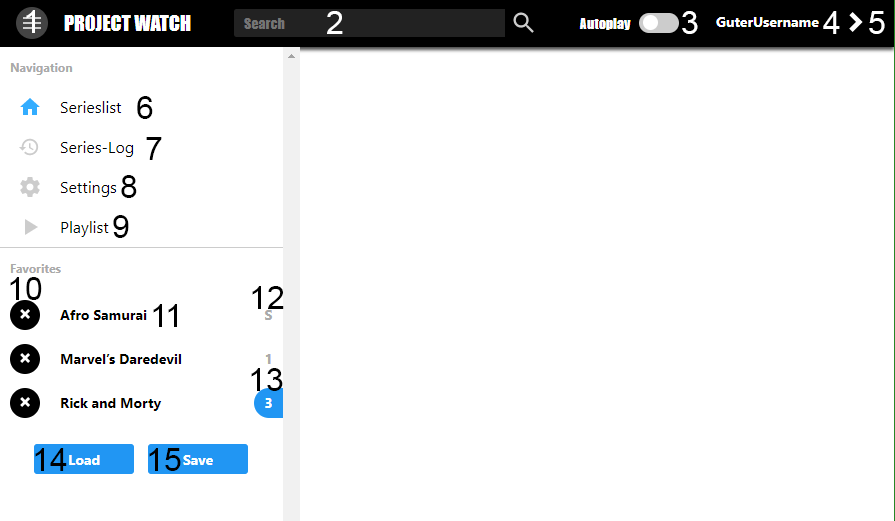
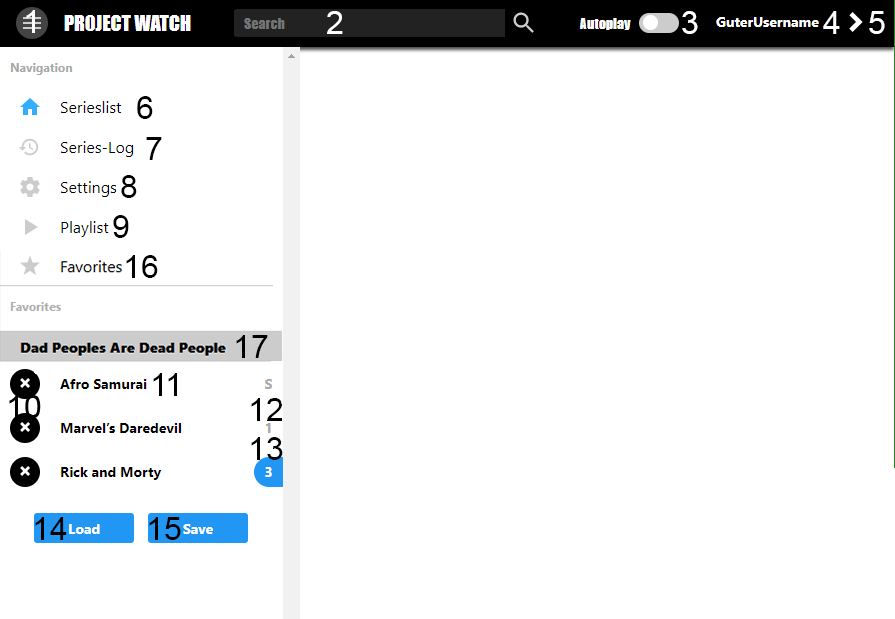
???

diff --git a/Instruction/Manuals/manuals.html b/Instruction/Manuals/manuals.html
@@ -132,6 +132,17 @@
                             <li><a href="#medienspielerset">Medienspieler</a></li>
                         </ul>
                     </li>
+                    <li><a href="#favoritensortierung">Favoritensortierung</a>
+                        <ul>
+                            <li><a href="#favoritensortierungsbeschreibung">Favoritensortierungsbeschreibung</a></li>
+                        </ul>                      
+                    </li>
+                    <li><a href="#playlist">Playlist</a>
+                        <ul>
+                            <li><a href="#playlistbeschreibung">Playlistbeschreibung</a></li>
+                        </ul>                      
+                    </li>
+                    <li><a href="#serienlog">Serienlog</a></li>
                     <li><a href="#weitereoptimierungen">Weitere Optimierungen</a>
                         <ul>
                             <li><a href="#addblockfilter">Addblock Filter</a></li>
@@ -281,6 +292,17 @@
                             Nur möglich, wenn der Benutzer angemeldet ist.
                         </li>
                         <li><strong>Speichernknopf.</strong> Speichert alle Favoriten auf dem Account des Benutzers. Speichert keine Staffeln. Nur möglich, wenn der Benutzer angemeldet ist.</li>
+                        <li>
+                            <strong>Favorites</strong>
+                            Navigation zum Favoriten kategorisieren. Diese Navigation ist nur sichtbar wenn unter den 
+                            Einstellungen "Categories Favorite Menu" angeschaltet ist.<hotkey>ENTER</hotkey>.
+                        </li>
+                        <li>
+                            <strong>Kategorie</strong>
+                            Anzeige der Kategorie. Der Titel, die Anzahl und gelistete Favoriten der Kategorien kann,
+                            unter der Navigation "Favorites", selbst bestimmt werden. Die Kategorien ist nur sichtbar
+                            wenn unter den Einstellungen "Categories Favorite Menu" angeschaltet ist.
+                        </li>
                     </ol>
                 </div>
             </div>
@@ -490,6 +512,12 @@
                                 Favoriten gespeichert sind. (Ca 15 Sekunden für 27 Favoriten. Prozessor-, Browser- und Internetabhängig)
                             </li>
                             <li>
+                                <strong>Categorize Favorite Menu</strong>
+                                Schaltet das Favoritennavigationsfeld frei. Die Favoriten können bei aktivierung sortiert
+                                werden und werden auch Sortiert im Seitenmenü angezeigt. Die Kategorie "Not Sorted" kann
+                                nicht Sortiert werden und wird immer in alphabetischer Reihenfolge angezeit.
+                            </li>
+                            <li>
                                 <strong>Enable Episodesearch. Seriessearch on Episodelist Will Be Disabled</strong>.
                                 Schaltet die Episodensuche auf der Episodenliste an. Dabei wird die Seriensuche auf der
                                 Episodenliste ausgeschaltet.
@@ -569,6 +597,108 @@
                 </div>
             </div>
             
+            <h2 id="favoritensortierung">Favoritensortierung</h2>
+            <div class="tab">
+                <p>
+                    Im Menüpunkt "Favorites" können die Favoriten mit Kategorien sortiert werden. Sowohl Favoriten
+                    als auch ihre Kategorien können sortiert werden. Die Kategorie "Not Sorted" ist eine unsortierte
+                    Kategorie und kann werder in der Kategoriereihenfolge als auch in der Favoritenreihenfolge sortiert
+                    werden. Dieser Menüpunkt ist nur sichtbar wenn die Einstellung "Categorize Favorite Menu" im General-tab
+                    angeschaltet ist. Kategorien mit dem gleichen Namen werden zusammengefasst.
+                </p>
+                <h3 id="favoritensortierungsbeschreibung">Favoritensortierungsbeschreibung</h3>
+                <div class="tab">
+                    <img width="700" src="img/Favorites.PNG"></img>
+                    <ol>
+                        <li>
+                            <strong>Kategorietitel</strong>.
+                            Name der Kategorie. Der Titel kann genutzt werden um die Reihenfolge der Kategorie
+                            zu ändern. Dafür muss mit der Maus der Titel angeklickt und auf die gewählte stelle
+                            gezogen werden.
+                        </li>
+                        <li>
+                            <strong>Edit</strong>. 
+                            Ermöglicht es dem Nutzer den Titel zu ändern. Zum bestätigen kann neben das Eingabefeld geklickt
+                            werden oder <hotkey>Enter</hotkey> geklickt werden.
+                        </li>
+                        <li>
+                            <strong>Delete</strong>.
+                            Löscht die Kategorie. Alle darin befindenden Favoriten werden in die "Not Sorted"-Kategorie
+                            verschoben.
+                        </li>
+                        <li>
+                            <strong>Favorit</strong>. 
+                            Der Favorit kann mit klicken und ziehen verschoben werden. Dies funktioniert auch unter den
+                            Kategorien.
+                        </li>
+                        <li><strong>Titel</strong>. Der Titel. Ist ein Titel des Favorit.</li>
+                        <li>
+                            <strong>Staffel</strong>. Anzeige der Staffel. Zeigt mit der Farbe an ob der Favorit
+                            komplett geschaut wurde.
+                        </li>
+                        <li>
+                            <strong>Not Sorted Kategorie</strong>.
+                            Die "Not Sorted"- Kategorie beinhaltet alle Favoriten die in keiner Kategorie enthalten ist.
+                            Die Kategorie wird in den Favoriten immer ganz unten Angezeigt. Ihre Sortierung wird nicht gespeichert,
+                            auch wenn ihre Einträge auf dieser Obefläche umsortiert werden können.
+                        </li>
+                        <li>
+                            <strong>Add New Category</strong>.
+                            Fügt eine neue Kategorie hinzu. Diese wird ganz oben hinzugefügt und trägt den Platzhalternamen
+                            "New Category".
+                        </li>
+                    </ol>
+                </div>
+            </div>
+            
+            <h2 id="serienlog">Serienlog</h2>
+            <div class="tab">
+                <p>
+                    Der Serienlog zeigt die 50 zuletzt geschauten Episoden an. Nebenbei werden zusatzinformationen
+                    angezeigt wie Hoster, deutscher Titel, original Titel, Zeit mit Datum, Serie und Staffel.
+                </p>
+            </div>
+            
+            <h2 id="playlist">Playlist</h2>
+            <div class="tab">
+                <p>
+                    Die Playlist ermöglicht es Episoden unterschiedlicher Serien im Autoplay abzuspielen. 
+                    Beim Anschauen werden gestartete Episoden aus der Playlist gelöscht.Die Episoden können
+                    noch nach dem Hinzufügen Sortiert werden.
+                </p>
+                <h3 id="playlistbeschreibung">Playlistbeschreibung</h3>
+                <div class="tab">
+                    <img width="700" src="img/playlist.PNG"></img>
+                    <ol>
+                        <li>
+                            <strong>Episode</strong>.
+                            Die Episode kann mit klicken und ziehen umsortiert werden.
+                        </li>
+                        <li>
+                            <strong>Episodenbeschreibung</strong>.
+                            Zeigt alle relevenaten Informationen zur Episode an.
+                        </li>
+                        <li><strong>Löschen des Eintags</strong>. Löscht den Eintrag.</li>
+                        <li>
+                            <strong>Keep Playing Last Serien</strong>. 
+                            Weiterschauen der letzten Serie. Wenn diese Option angeschaltet ist wird beim beenden
+                            der Playlist die Serie des letzten Eintrags im Autoplay weitergeführt.
+                        </li>
+                        <li><strong>Play ALl</strong>.Startet die Playlist.</li>
+                        <li><strong>Clear All</strong>. Löscht alle Einträge.</li>
+                    </ol>
+                </div>
+            </div>            
+            
+            <h2 id="nichtunterstütztehoster">Nicht Unterstütze Hoster</h2>
+            <div class="tab">
+                <p>
+                    Bei nicht unterstützten Hostern wird dieser Hoster in einem Seperaten Tab geöffnet. Dafür
+                    müssen Pop-Ups erlaubt werden. Beim Autoplay startet die nächste Episode nachdem der
+                    "Next Episode"-Knopf gedrückt wurde oder der geöffnete Tab geschlossen wurde.
+                </p>
+            </div>
+            
             <h2 id="weitereoptimierungen">Weitere Optimierungen</h2>
             <div class="tab">
                 <h3 id="addblockfilter">Addblock Filter</h3>
@@ -580,12 +710,10 @@
                     <p>
                         Unter uBlock: Dashboard -> Meine Filter
                     </p>
-                    <textarea type="text" rows="4" cols="40" id="filter" readonly>
-    ||connect.facebook.net^$domain=bs.to
-    ||buzzadexchange.com^$domain=bs.to
-    ||mc.yandex.ru^$domain=bs.to
-    ||fonts.googleapis.com^$domain=bs.to
-                    </textarea><br>
+                    <textarea type="text" rows="4" cols="40" id="filter" readonly>||connect.facebook.net^$domain=bs.to
+||buzzadexchange.com^$domain=bs.to
+||mc.yandex.ru^$domain=bs.to
+||fonts.googleapis.com^$domain=bs.to</textarea><br>
                     <button onclick="copyToClip()">Kopieren</button>
                     <script>
                         function copyToClip() {
